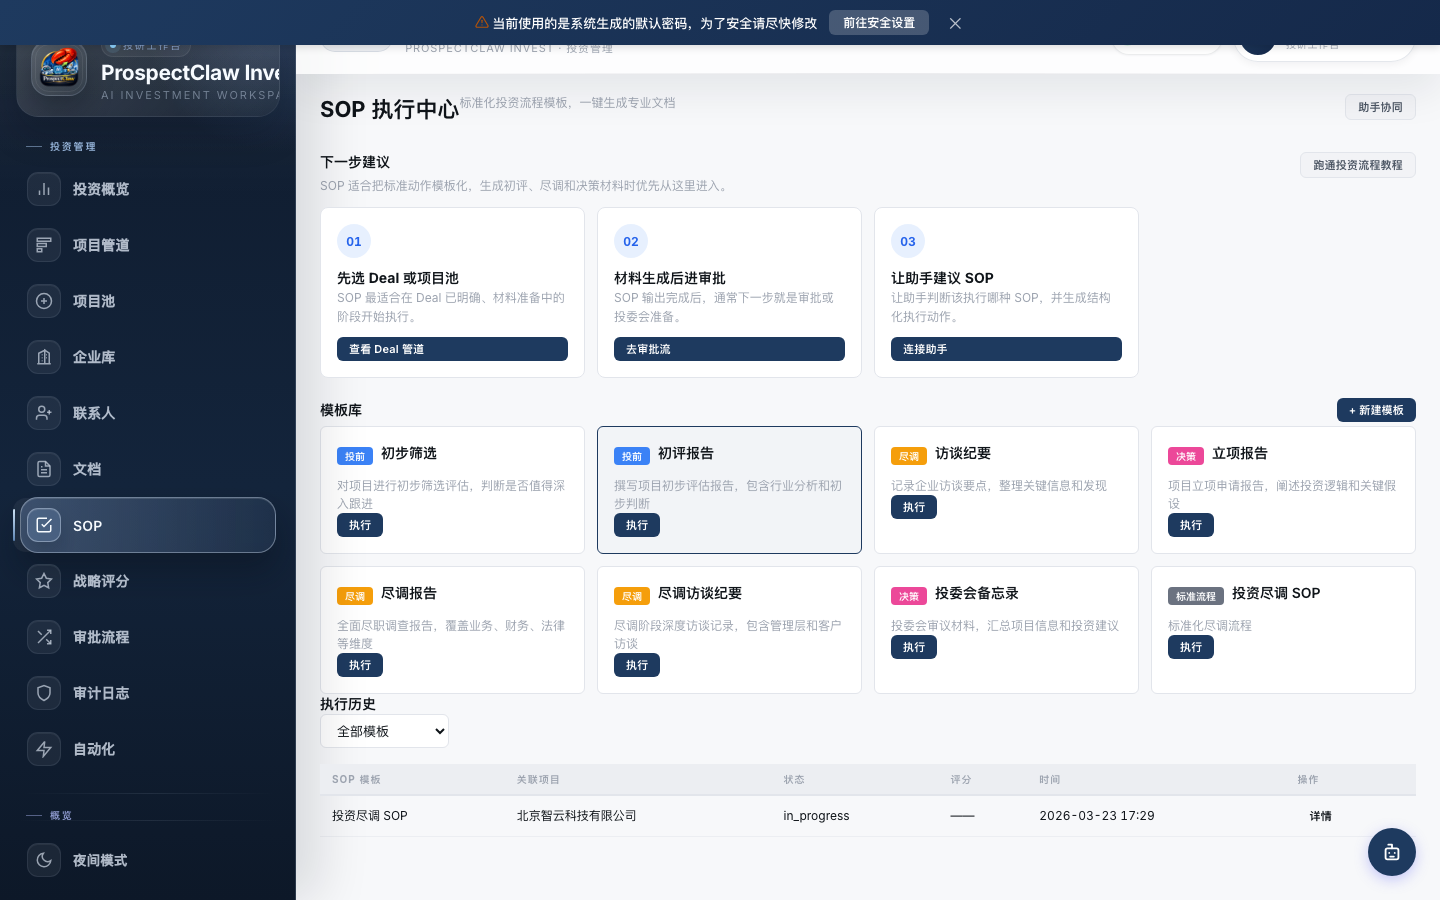
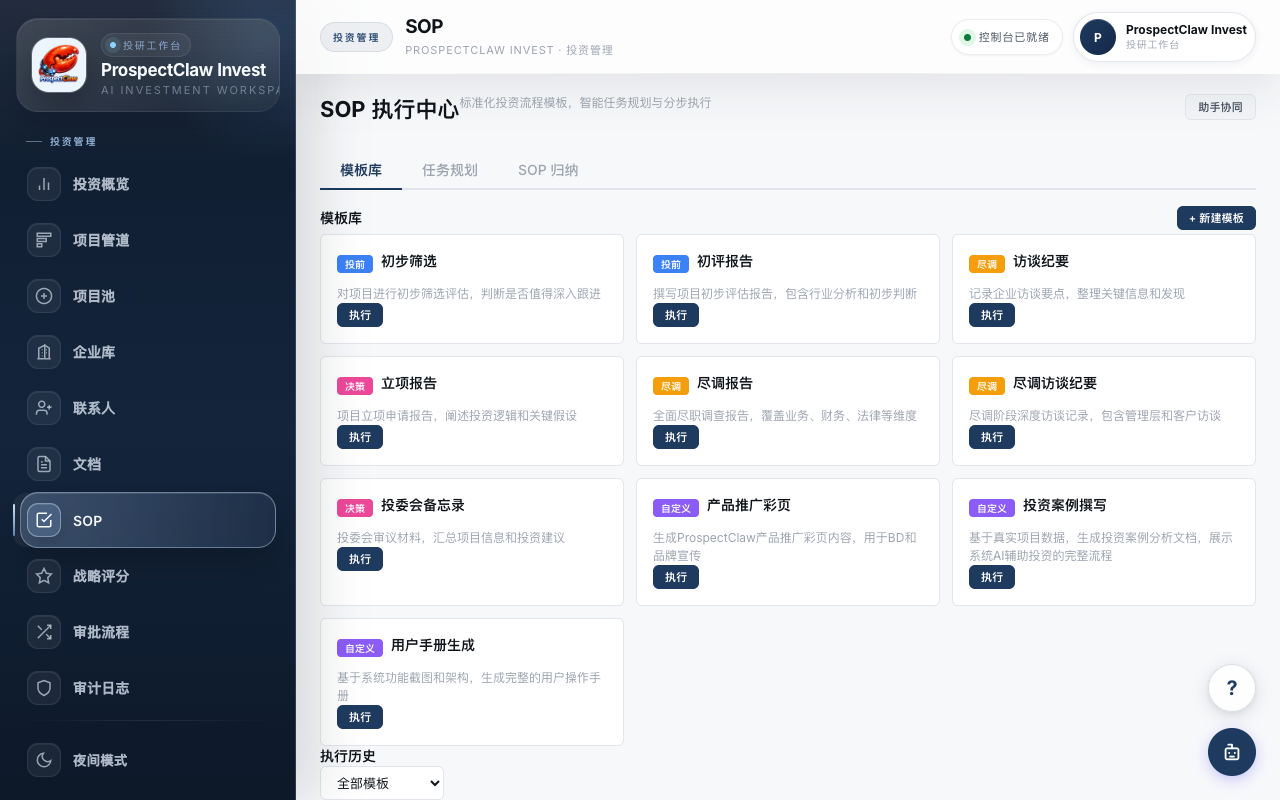
upgrade v1.0.29

diff --git a/index.html b/index.html
@@ -59,7 +59,7 @@
     <div class="hero-grid"></div>
   </div>
   <div class="container hero-content">
-    <div class="hero-badge reveal">v1.0.21 &middot; OpenClaw AI 底座</div>
+    <div class="hero-badge reveal">v1.0.29 &middot; OpenClaw AI 底座</div>
     <h1 class="hero-title reveal">一套 AI 底座<br>无限工作流可能</h1>
     <p class="hero-subtitle reveal">
       内置 Agent 引擎、多模型聚合、MCP 工具链扩展。<br>
@@ -69,6 +69,12 @@
     <div class="hero-ctas reveal">
       <a href="#download" class="btn btn-primary">下载 ProspectClaw</a>
       <a href="#platform" class="btn btn-outline">探索平台能力</a>
+    </div>
+    <div class="hero-whatsnew reveal">
+      <span class="chip">AI 任务规划器</span>
+      <span class="chip">执行监督</span>
+      <span class="chip">流程图可视化</span>
+      <span class="chip">新手引导系统</span>
     </div>
     <div class="hero-image reveal">
       <div class="hero-pixelscape">
@@ -421,22 +427,44 @@
       </div>
     </div>
 
-    <!-- 评分 + SOP -->
+    <!-- 评分 + SOP 任务规划 -->
     <div class="showcase-row reverse reveal">
       <div class="showcase-text">
-        <div class="showcase-label">Scoring & SOP</div>
-        <h3 class="showcase-title">评分体系 + SOP 流程 — 决策标准化</h3>
+        <div class="showcase-label">Scoring & SOP Task Planner</div>
+        <h3 class="showcase-title">评分体系 + SOP 任务规划 — 从评估到执行的闭环</h3>
         <p class="showcase-desc">
-          灵活配置评分模型，系统化评估每个标的。SOP 流程文档把投资逻辑固化下来，让每个项目都按规范走。
+          灵活配置评分模型，系统化评估每个标的。SOP 任务规划器让你描述一个大目标，AI 自动拆解为可执行步骤——DAG 依赖管理、步骤状态追踪，关联 Deal 与项目池。
         </p>
         <div class="showcase-chips">
           <span class="chip">评分模型</span>
-          <span class="chip">SOP 文档</span>
-          <span class="chip">IC 审批</span>
+          <span class="chip">AI 目标拆解</span>
+          <span class="chip">任务规划</span>
+          <span class="chip">依赖管理</span>
         </div>
       </div>
       <div class="showcase-image" data-lightbox>
-        <img src="/screenshots/desktop-scoring.png" alt="评分体系">
+        <img src="/screenshots/desktop-sop-task-planner.png" alt="SOP 任务规划">
+      </div>
+    </div>
+
+    <!-- 流程可视化 + 执行监督 -->
+    <div class="showcase-row reveal">
+      <div class="showcase-text">
+        <div class="showcase-label">Flow Visualization & Supervision</div>
+        <h3 class="showcase-title">流程可视化 + 执行监督 — 看得见的任务进度</h3>
+        <p class="showcase-desc">
+          自绘 SVG 流程图展示步骤依赖与执行状态，超时告警实时检测，质量门槛守护交付标准，步骤回退支持级联重置。导出 SVG / PNG / Mermaid，SOP 归纳器从历史执行中提炼标准模板。
+        </p>
+        <div class="showcase-chips">
+          <span class="chip">SVG 流程图</span>
+          <span class="chip">超时告警</span>
+          <span class="chip">质量门槛</span>
+          <span class="chip">Mermaid 导出</span>
+          <span class="chip">SOP 归纳</span>
+        </div>
+      </div>
+      <div class="showcase-image" data-lightbox>
+        <img src="/screenshots/desktop-sop-flow-diagram.png" alt="流程可视化">
       </div>
     </div>
 
@@ -466,7 +494,7 @@
       <div class="possibility-card reveal stagger-3">
         <div class="possibility-icon">&#128203;</div>
         <h3 class="possibility-title">SOP 即流程</h3>
-        <p class="possibility-desc">把业务流程写成 Agent 能理解的 SOP 文档，Agent 就能按规则执行。规则清晰、流程稳定、行为可追溯。</p>
+        <p class="possibility-desc">描述一个目标，AI 自动拆解为可执行步骤。DAG 依赖管理、执行监督、质量门槛、流程图可视化——从规划到完成，全程可追踪。</p>
       </div>
       <div class="possibility-card reveal stagger-4">
         <div class="possibility-icon">&#128256;</div>
@@ -506,7 +534,7 @@
         <ul class="edition-card-features">
           <li>投资仪表盘 + Deal Pipeline</li>
           <li>企业库 / 联系人 / 投资文档</li>
-          <li>评分 / SOP / 审批 / 自动化</li>
+          <li>评分 / SOP 任务规划 / 审批 / 自动化</li>
           <li>PE/VC 知识库注入助手</li>
           <li>+ 完整平台核心能力</li>
         </ul>
@@ -540,10 +568,10 @@
         <p class="edition-card-tagline">Agent SOP</p>
         <p class="edition-card-desc">以 SOP 工作台为首页，专注 Agent 规则维护与流程文档。规则清晰、流程稳定、Agent 行为可追溯。</p>
         <ul class="edition-card-features">
-          <li>SOP 工作台首页</li>
-          <li>Agent 规则编写与维护</li>
-          <li>流程文档输出</li>
-          <li>Agent / 模型 / Gateway 管理</li>
+          <li>SOP 工作台 + AI 任务规划器</li>
+          <li>执行监督 + 质量门槛 + 步骤回退</li>
+          <li>流程图可视化 + Mermaid 导出</li>
+          <li>SOP 归纳器 + 模板库</li>
           <li>+ 完整平台核心能力</li>
         </ul>
         <div class="edition-card-cta">
@@ -716,7 +744,7 @@
     <div class="section-header reveal">
       <div class="section-tag">Download</div>
       <h2 class="section-title">立即下载 ProspectClaw</h2>
-      <div class="download-badge">v1.0.21</div>
+      <div class="download-badge">v1.0.29</div>
       <p class="section-subtitle">约 10MB 安装包，安装即用，无需额外运行时环境。选择适合你的版本：</p>
     </div>
 

diff --git a/agent-guide.html b/agent-guide.html
@@ -54,7 +54,7 @@
     <div class="hero-grid"></div>
   </div>
   <div class="container hero-content">
-    <div class="hero-badge reveal">AI Agent Reference · v1.0.21</div>
+    <div class="hero-badge reveal">AI Agent Reference · v1.0.29</div>
     <h1 class="hero-title reveal">ProspectClaw Agent 知识库</h1>
     <p class="hero-subtitle reveal">
       这是一份专为 AI Agent 设计的结构化参考文档。内容经过优化，便于检索、推理和回答用户关于 ProspectClaw 安装、配置与使用的问题。
@@ -70,15 +70,15 @@
   <div class="container">
 
     <div class="ai-kb-toolbar reveal">
-      <div class="guide-intro-badge">Agent 知识块 v1.0.21</div>
+      <div class="guide-intro-badge">Agent 知识块 v1.0.29</div>
       <button class="btn btn-primary" data-copy-target="agent-kb-full">复制整段给 AI</button>
     </div>
 
     <pre class="ai-kb-block reveal" id="agent-kb-full"># ProspectClaw / OpenClaw 安装与使用知识库（Agent 版）
 
 ## 元信息
-- 文档版本: 2026-03-23
-- 适用产品: ProspectClaw v1.0.21（Invest / Knowledge / SOP 三版本）
+- 文档版本: 2026-03-25
+- 适用产品: ProspectClaw v1.0.29（Invest / Knowledge / SOP 三版本）
 - 目标读者: AI Agent（钳子助手、ChatGPT、Claude 等）
 - 用途: 回答用户关于安装、配置、使用、排障的问题
 
@@ -172,6 +172,30 @@
 | 系统诊断 | /chat-debug | 环境体检、WebSocket 测试 |
 | 自动化 | /automation | 定时任务、模板卡片 |
 | 企业库 | /companies | 投资标的企业管理 |
+| SOP 任务规划 | /sop（任务规划 Tab） | AI 目标拆解、步骤执行、执行监督、流程图 |
+| SOP 归纳 | /sop（SOP 归纳 Tab） | 模式提炼、模板合并、一键应用 |
+| 知识库 | /knowledge | 知识库管理、文档提取、同步 Agent（Knowledge 版） |
+
+---
+
+## 4.1 SOP 任务规划系统（v1.0.29 新增）
+
+### 功能概述
+- 任务规划器：描述大目标 → AI 自动拆解为分步任务（DAG 依赖管理）
+- 执行监督：超时告警、质量门槛（评分 &lt; 阈值阻止通过）、步骤回退（级联重置下游）
+- 流程图可视化：自绘 SVG（Kahn 分层算法）、状态着色、导出 SVG/PNG/Mermaid
+- SOP 归纳器：从已完成计划提炼共性步骤模式，合并为标准模板
+
+### 步骤状态流转
+pending → ready → running → waiting_review → completed / failed / skipped
+
+### 常见问题
+- Q: AI 不可用时能否使用任务规划？
+  A: 可以。内置关键词匹配降级方案（尽调/评估/投决场景），无需 AI 也能自动拆解。
+- Q: 如何回退已完成步骤？
+  A: 点击步骤回退按钮，下游依赖步骤会级联重置为 pending 状态。
+- Q: 如何导出流程图？
+  A: 在任务规划详情页点击"流程图"按钮，支持导出 SVG、PNG（2x 分辨率）或复制 Mermaid 语法。
 
 ---
 

diff --git a/usage-guide.html b/usage-guide.html
@@ -597,6 +597,16 @@
           <p>定时任务 + 心跳监控 + 事件触发，Agent 可以 7×24 自动运行，异常时自愈。</p>
         </div>
       </div>
+
+      <div class="guide-invest-card reveal stagger-5">
+        <div class="guide-invest-screenshot">
+          <img src="/screenshots/desktop-sop-task-planner.png" alt="SOP 任务规划" style="width:100%; border-radius:8px;">
+        </div>
+        <div class="guide-invest-info">
+          <h3>SOP 任务规划（Task Planner）</h3>
+          <p>描述一个大目标，AI 自动拆解为可执行步骤。DAG 依赖管理、执行监督、质量门槛、流程图可视化，从规划到完成全程可追踪。</p>
+        </div>
+      </div>
     </div>
   </div>
 </section>

diff --git a/portal.css b/portal.css
@@ -253,6 +253,16 @@ a:hover { text-decoration: underline; }
   flex-wrap: wrap;
 }
 
+.hero-whatsnew {
+  display: flex; flex-wrap: wrap; gap: 8px;
+  justify-content: center; margin-top: 16px;
+}
+.hero-whatsnew .chip {
+  background: var(--p-accent-muted);
+  color: var(--p-accent);
+  font-size: 12px;
+}
+
 .btn {
   display: inline-flex; align-items: center; gap: 8px;
   padding: 11px 24px; border-radius: 10px;
